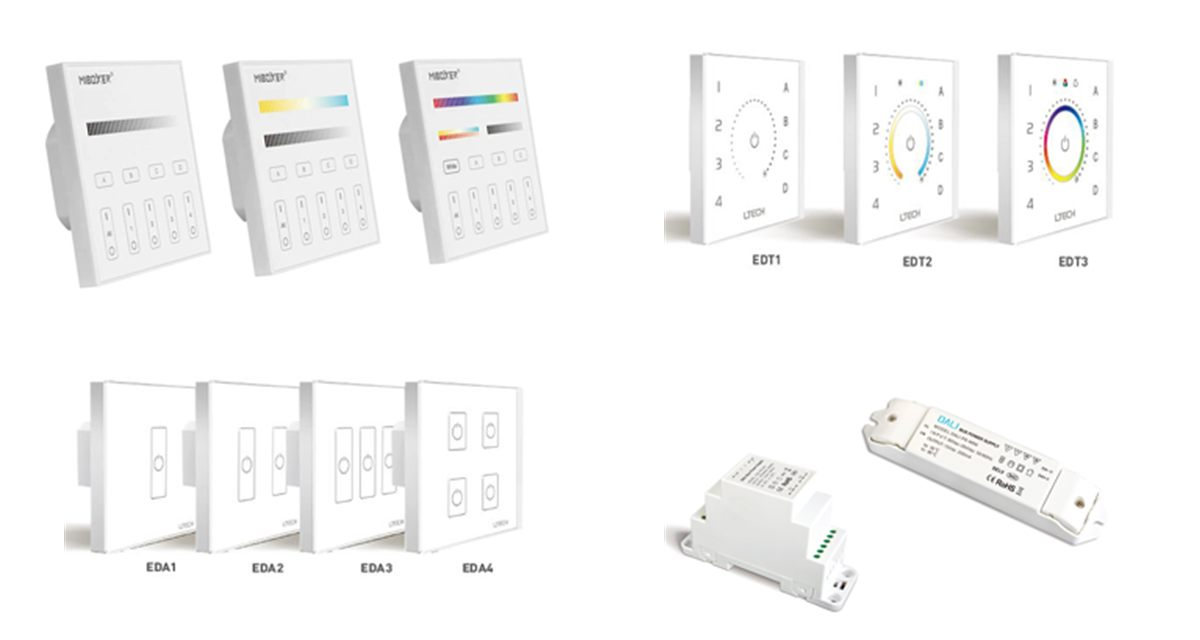
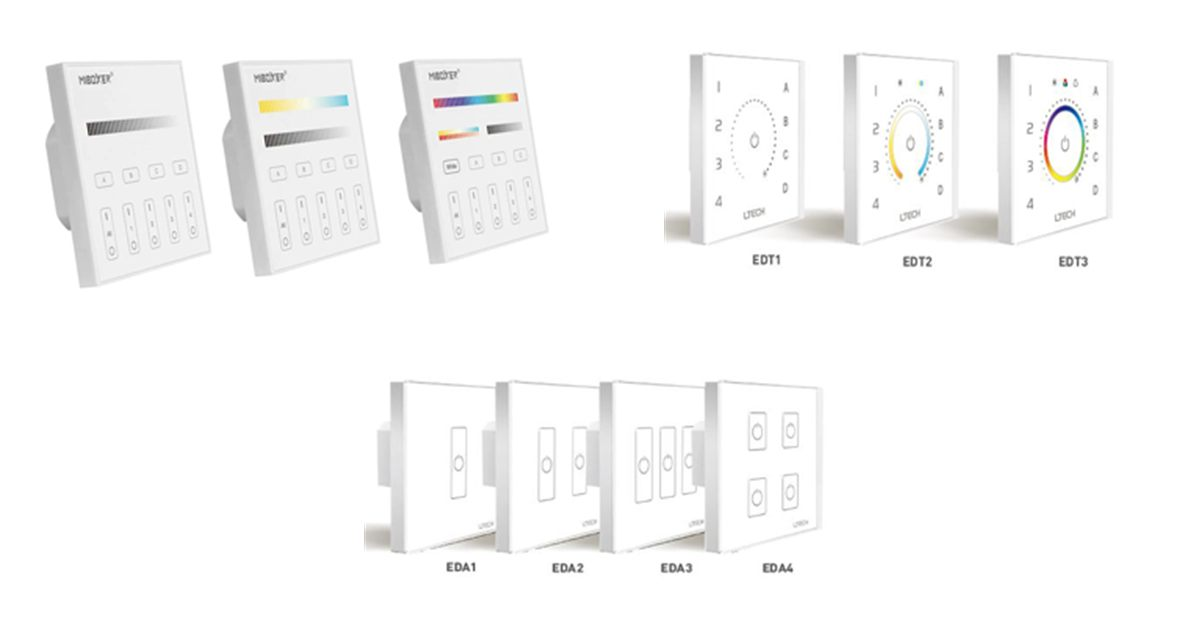
Remove power supplies from DALI touch panel group image

Changed region(s): [[0.0308, 0.5938, 0.7092, 0.9688], [0.7092, 0.625, 0.925, 0.8438]]

diff --git a/dali-touch-panel-technology.html b/dali-touch-panel-technology.html
@@ -190,7 +190,7 @@
       <div class="row g-4 g-lg-5">
         <div class="col-12 col-lg-8">
           <div class="border rounded-3 p-4 bg-white mb-5 text-center" style="box-shadow:var(--po-shadow-card);">
-            <img src="assets/img/DALI-touch-panel-group-sm.jpg" alt="DP, EDT and EDA DALI touch panels and DALI bus power supplies" class="img-fluid" style="max-height:360px;object-fit:contain;" />
+            <img src="assets/img/DALI-touch-panel-group-sm.jpg" alt="DP, EDT and EDA DALI touch panels" class="img-fluid" style="max-height:360px;object-fit:contain;" />
           </div>
 
           <p class="ips-eyebrow">Overview</p>
